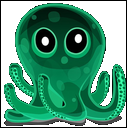
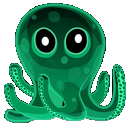
glwidget: use transparent octopus background

Changed region(s): [[0.0, 0.0, 1.0, 1.0]]

diff --git a/pose-widget/glwidget.cpp b/pose-widget/glwidget.cpp
@@ -98,16 +98,18 @@ inline GLWidget::vec3 GLWidget::normal(const vec3& p1, const vec3& p2, const vec
 
 void GLWidget::project_quad_texture() {
     const int sx = width(), sy = height();
-    vec2 pt[4];
+    const int ow = front.width(), oh = front.height();
     const vec3 corners[] = {
-        vec3(0., 0, 0),
-        vec3(sx-1, 0, 0),
-        vec3(0, sy-1, 0),
-        vec3(sx-1, sy-1, 0.)
+        vec3(-ow/2., -oh/2, 0),
+        vec3(ow/2, -oh/2, 0),
+        vec3(-ow/2, oh/2, 0),
+        vec3(ow/2, oh/2, 0.)
     };
 
+    vec2 pt[4];
+    vec2 sz((sx-ow)/2, (sy-oh)/2);
     for (int i = 0; i < 4; i++)
-        pt[i] = project(vec3(corners[i].x() - sx/2, corners[i].y() - sy/2, 0)) + vec2(sx/2, sy/2);
+        pt[i] = project(corners[i]) + vec2(sx/2, sy/2);
 
     vec3 normal1(0, 0, 1);
     vec3 normal2;
@@ -122,9 +124,7 @@ void GLWidget::project_quad_texture() {
 
     QImage& tex = dir < 0 ? back : front;
 
-    int ow = tex.width(), oh = tex.height();
-
-    QImage texture(QSize(sx, sy), QImage::Format_RGB888);
+    QImage texture(QSize(sx, sy), QImage::Format_RGBA8888);
     QColor bgColor = palette().color(QPalette::Current, QPalette::Window);
     texture.fill(bgColor);
 
@@ -199,6 +199,10 @@ void GLWidget::project_quad_texture() {
                     const unsigned char r___ = orig[orig_pos___ + 2];
                     const unsigned char g___ = orig[orig_pos___ + 1];
                     const unsigned char b___ = orig[orig_pos___ + 0];
+                    
+                    const unsigned char a1 = orig[orig_pos + 3];
+                    const unsigned char a2 = orig[orig_pos_ + 3];
+                    const unsigned char a3 = orig[orig_pos__ + 3];
 
                     const int pos = y * dest_pitch + x * dest_depth;
 
@@ -207,6 +211,7 @@ void GLWidget::project_quad_texture() {
                     dest[pos + 0] = (r * ax + r__ * ax_) * ay + (r___ * ax + r_ * ax_) * ay_;
                     dest[pos + 1] = (g * ax + g__ * ax_) * ay + (g___ * ax + g_ * ax_) * ay_;
                     dest[pos + 2] = (b * ax + b__ * ax_) * ay + (b___ * ax + b_ * ax_) * ay_;
+                    dest[pos + 3] = (a1 + a2 + a3)/3;
 
                     break;
                 }
